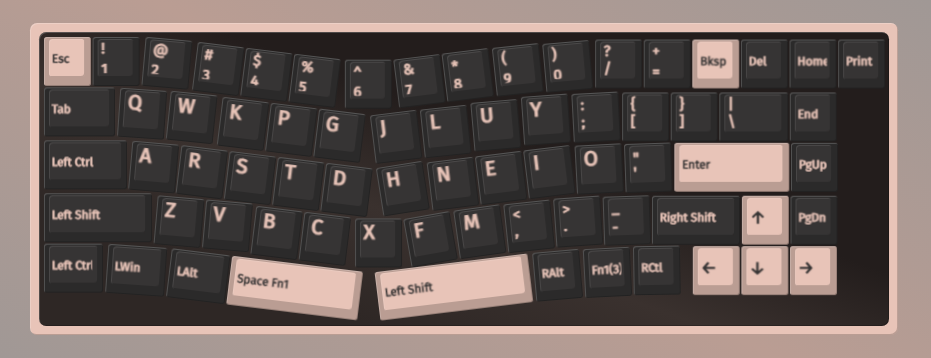
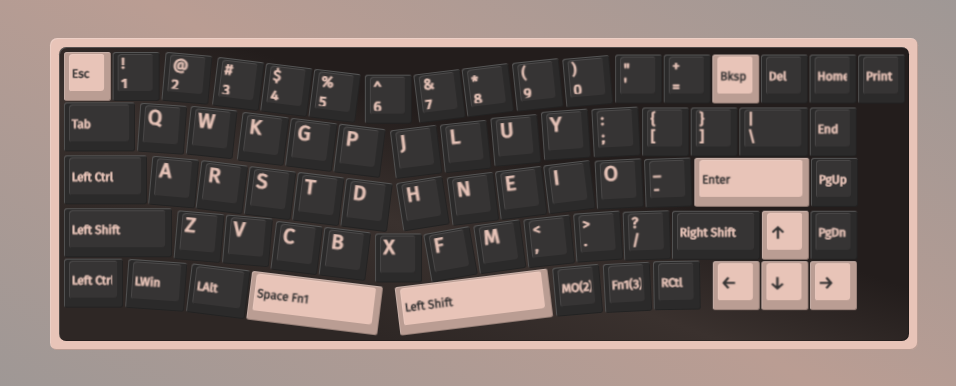
remap

diff --git a/README.md b/README.md
@@ -4,21 +4,12 @@
 ![layer0](./keyboards/aks068/alice_68.korumaku.layer0.png)
 
 - レイヤー2
-![layer1](./keyboards/aks068/alice_68.korumaku.layer1.png)
+![layer1][layer1_img]
+
+- レイヤー3
+![layer2](./keyboards/aks068/alice_68.korumaku.layer2.png)
 
 - 右側のBS, Enterは基本的には押さずにレイヤー切り替えで対応
 - 分割スペース前提
 
----
-```
----------------------------------------------
-  ~  !  @  #  $  %  ^  &  *  (  )  ?  +  ____
-  `  1  2  3  4  5  6  7  8  9  0  /  =   BS
- ___                             :  {  }  |  
- Tab  q  w  k  p  g  j  l  u  y  ;  [  ]  \  
- ____                             :  "  _____
- Caps  a  s  d  f  g  h  j  k  l  ;  '  Enter
- _____                       <  >  _  _______
- Shift  z  v  b  c  x  f  m  ,  .  -   Shift
----------------------------------------------
-```
+[layer1_img]: ./keyboards/aks068/alice_68.korumaku.layer0.png
